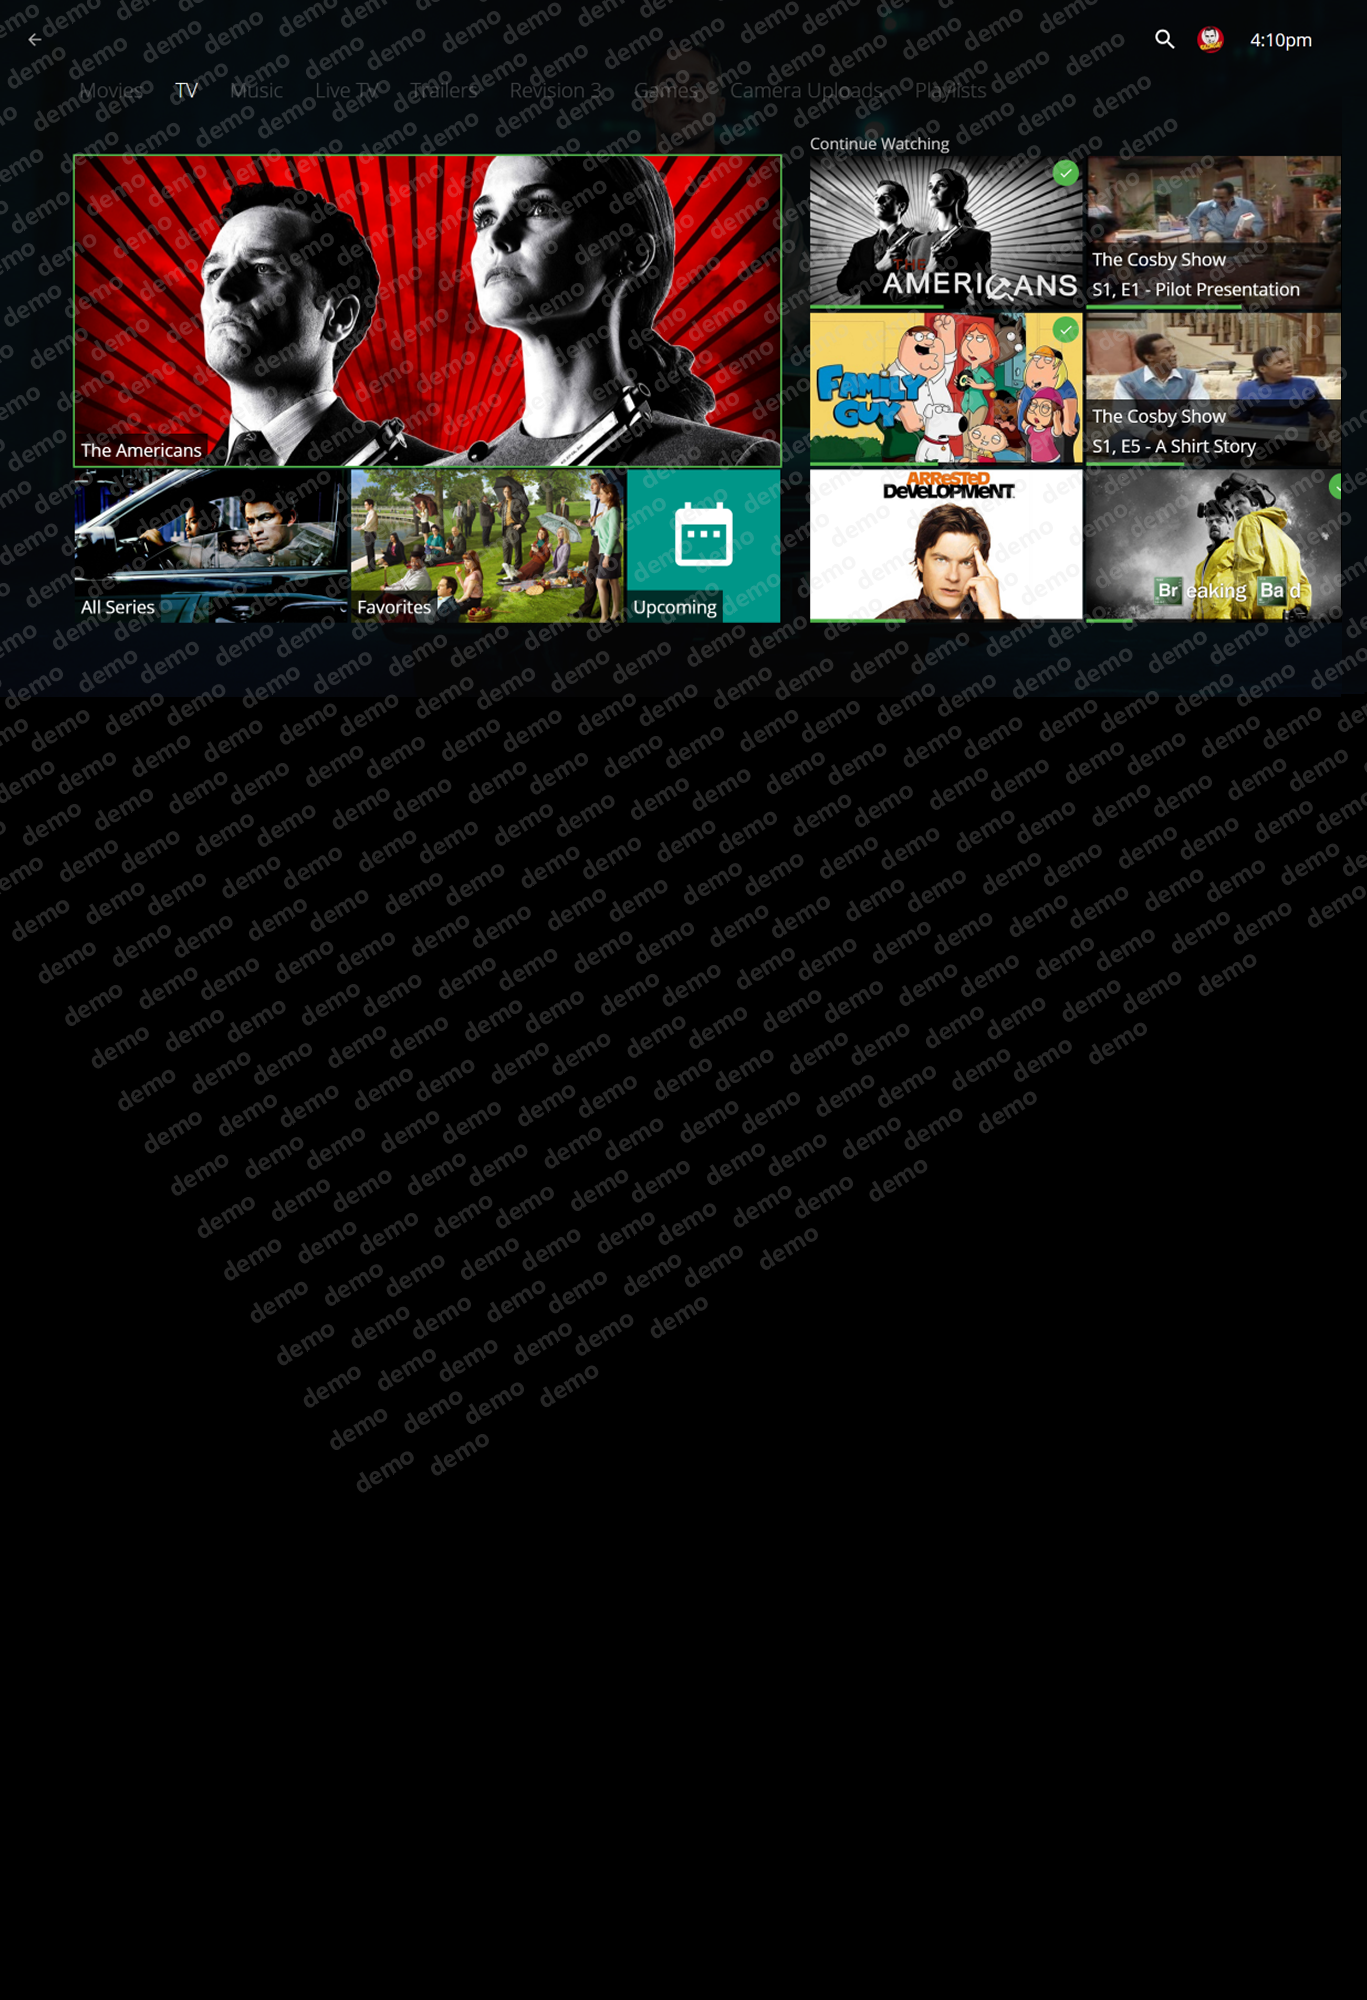
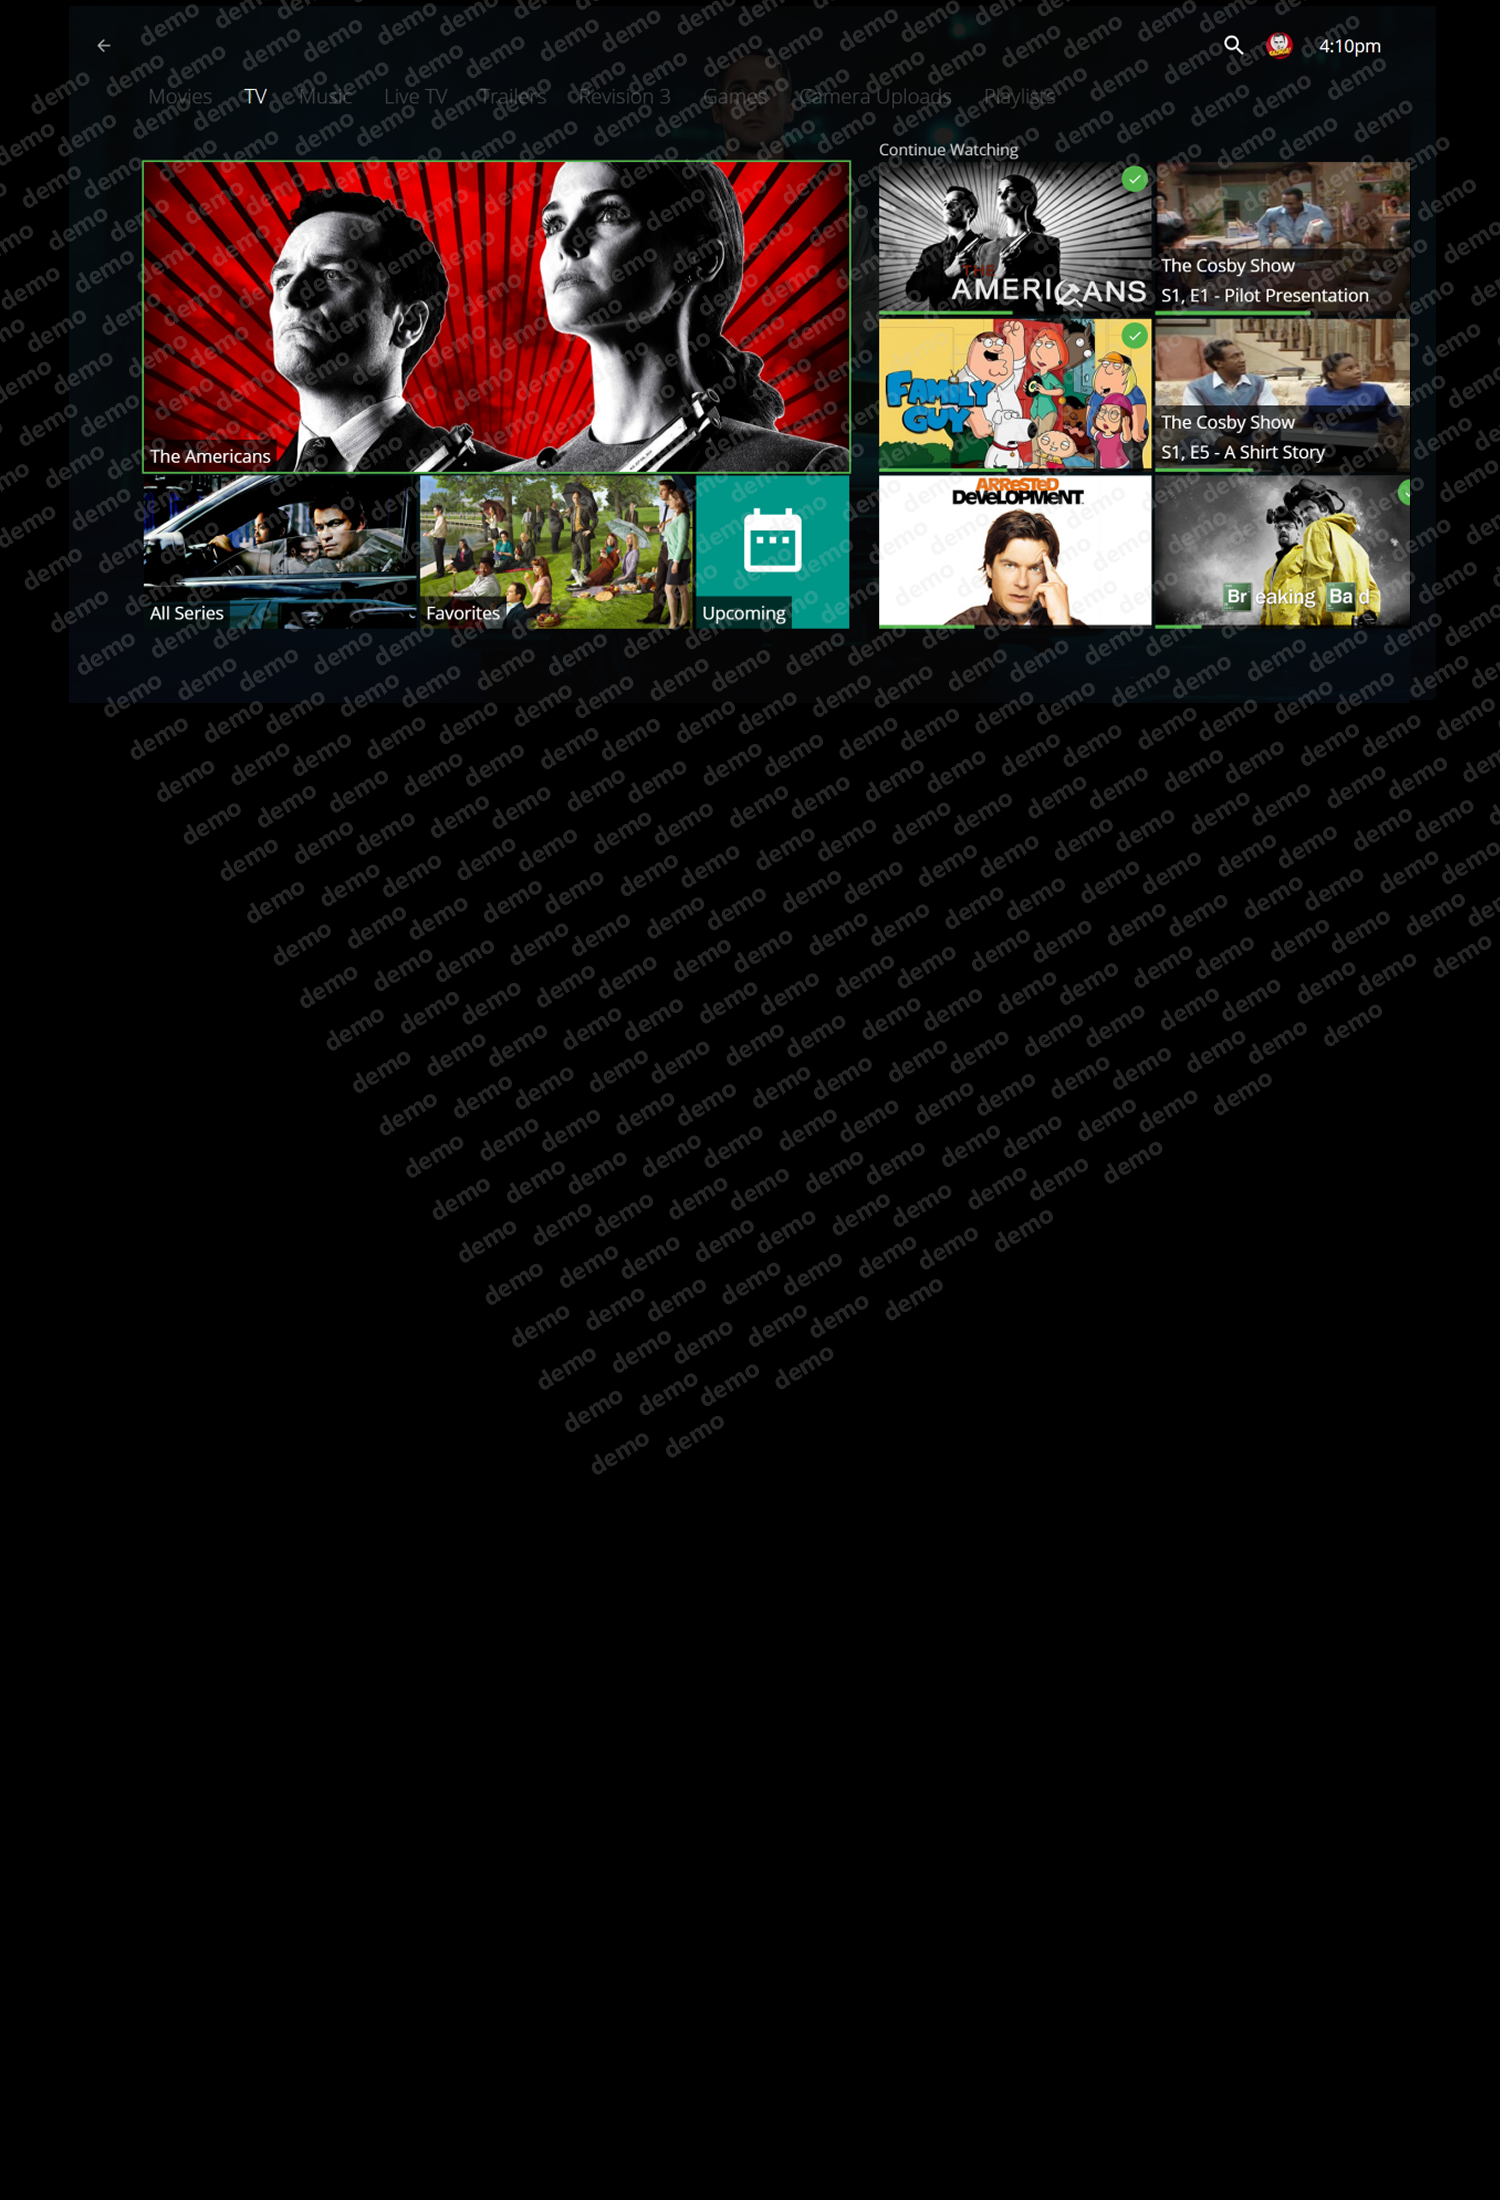
stretch background to fit edge

Changed region(s): [[0.0, 0.0, 1.0, 0.744]]

diff --git a/docs/dashboard-demo/frame_emby.html b/docs/dashboard-demo/frame_emby.html
@@ -5,10 +5,10 @@
 <style>
 .img1 {
 	background-image: url(../img/emby.png);
-	background-repeat: no-repeat;
-	width: 101%;
-	height: 99%;
-	margin: 0;
+	background-repeat: repeat-x;
+    background-position:center top;
+    width: 101%;
+	height: 2200px;
 }
 
 /* Portrait */
@@ -20,10 +20,11 @@
 	 
 .img1 {
 	background-image: url(../img/emby_m.png);
-	background-repeat: no-repeat;
+	background-repeat: repeat-x;
+    background-position:center top;
 	width: 101%;
-	height: 99%;
-	background-position: 1% 1%;`
+	height: 568px;
+
 }
 }
 </style>
